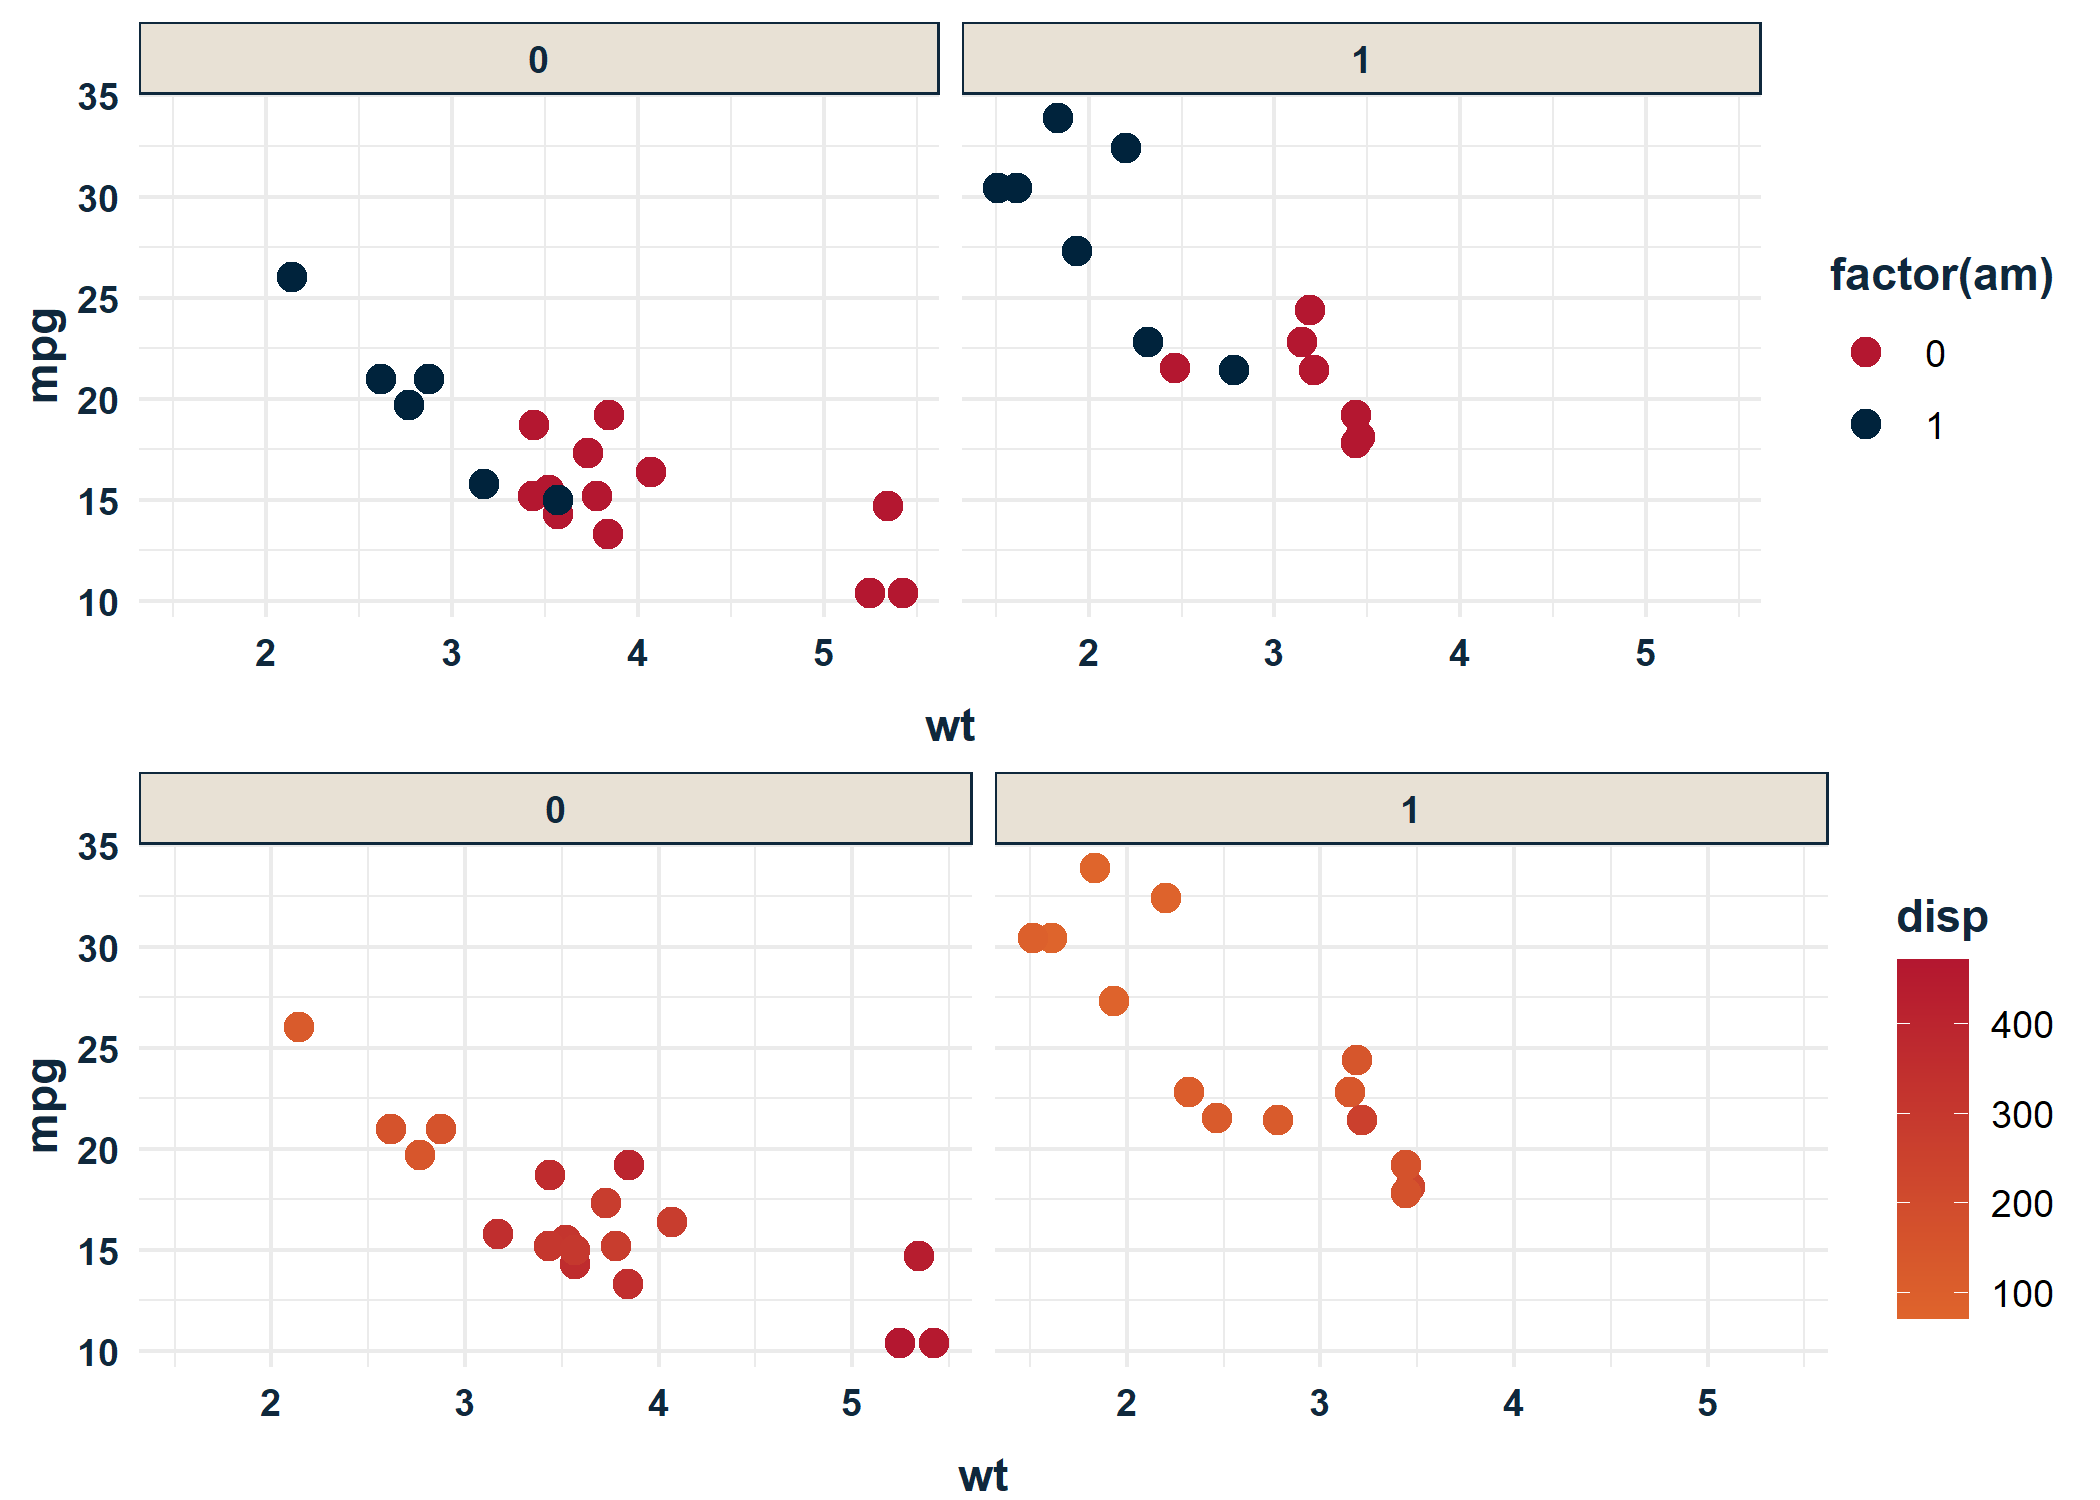
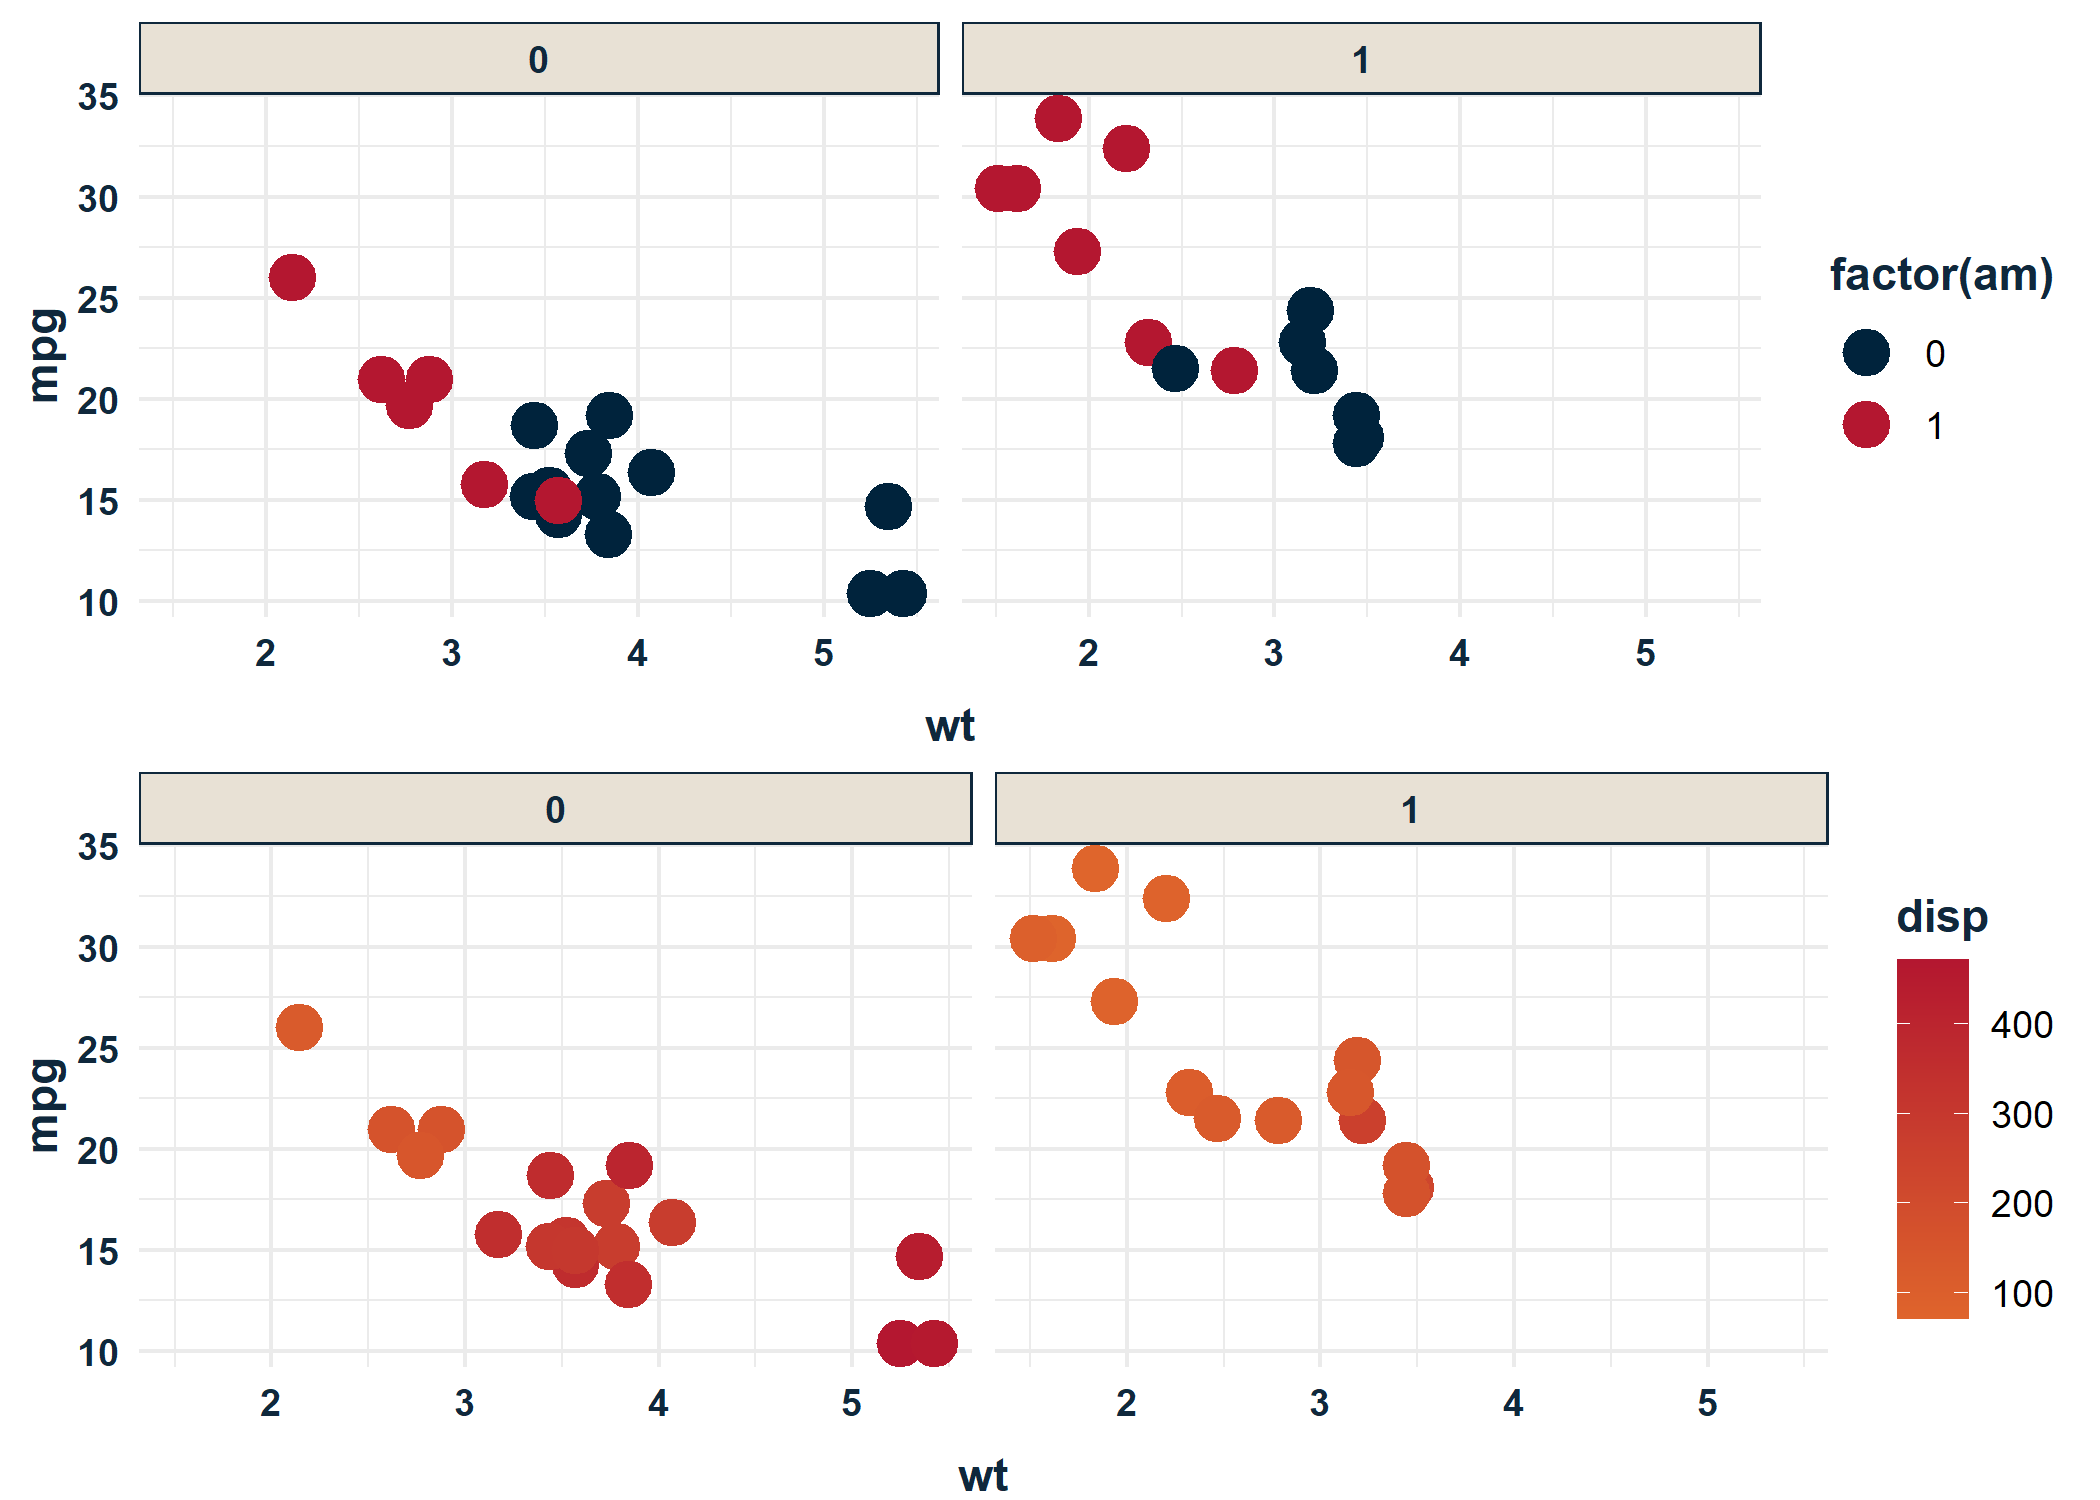
readme

diff --git a/README.md b/README.md
@@ -51,7 +51,7 @@ whether a legend is included and defaulting to `TRUE` (with
 ggplot(mtcars, aes(x = wt,
                    y = mpg,
                    color = factor(am))) +
-  geom_point(size = 3) +
+  geom_point(size = 5) +
   facet_wrap(~ vs) +
   dsb_style()
 ```
@@ -65,7 +65,7 @@ be overwritten by adding `theme()` elements after `dsb_style()`:
 ggplot(mtcars, aes(x = wt,
                    y = mpg,
                    color = factor(am))) +
-  geom_point(size = 3) +
+  geom_point(size = 5) +
   facet_wrap(~ vs) +
   dsb_style() +
   theme(legend.position = "bottom")
@@ -113,7 +113,7 @@ We can use these in our `ggplot2` syntax:
 ggplot(mtcars, aes(x = wt,
                    y = mpg,
                    color = factor(am))) +
-  geom_point(size = 3) +
+  geom_point(size = 5) +
   facet_wrap(~ vs) +
   dsb_style() +
   scale_colour_manual(values = c("#B41730", "#00233C"))
@@ -154,7 +154,7 @@ p1 <-
   ggplot(mtcars, aes(x = wt,
                      y = mpg,
                      color = factor(am))) +
-  geom_point(size = 3) +
+  geom_point(size = 5) +
   facet_wrap(~ vs) +
   dsb_style() +
   color_dsb_d()
@@ -164,7 +164,7 @@ p2 <-
   ggplot(mtcars, aes(x = wt,
                      y = mpg,
                      color = disp)) +
-  geom_point(size = 3) +
+  geom_point(size = 5) +
   facet_wrap(~ vs) +
   dsb_style() +
   color_dsb_c()
@@ -197,7 +197,7 @@ p1 <-
   ggplot(mtcars, aes(x = wt,
                          y = mpg,
                          color = disp)) +
-  geom_point(size = 3) +
+  geom_point(size = 5) +
   facet_wrap(~ vs) +
   dsb_style() +
   color_dsb_c(palette = "greens")
@@ -206,7 +206,7 @@ p2 <-
   ggplot(mtcars, aes(x = wt,
                          y = mpg,
                          color = disp)) +
-  geom_point(size = 3) +
+  geom_point(size = 5) +
   facet_wrap(~ vs) +
   dsb_style() +
   color_dsb_c(palette = "greens",
